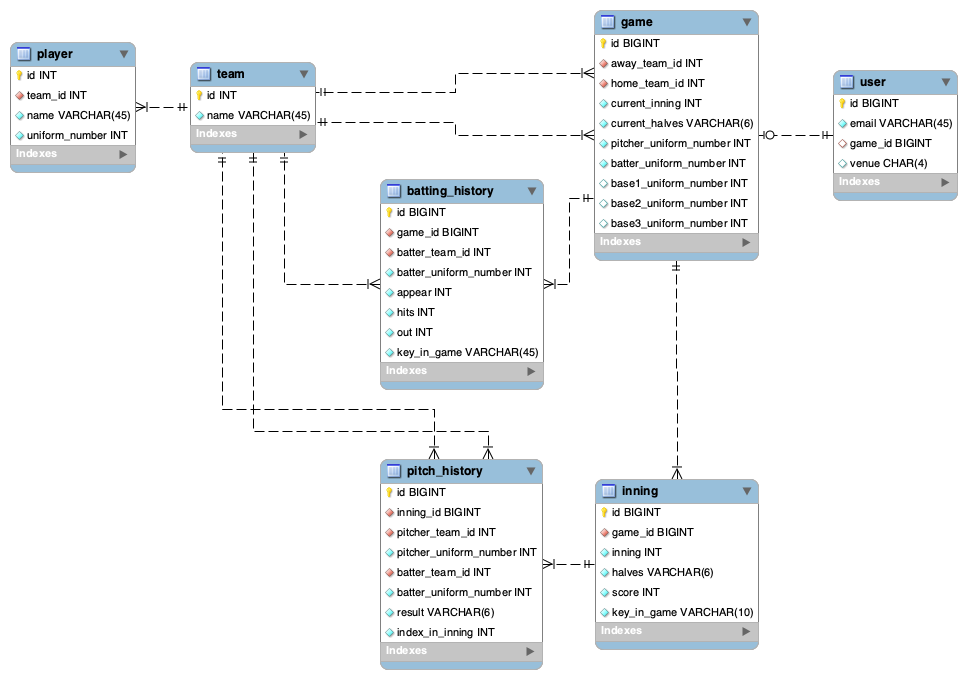
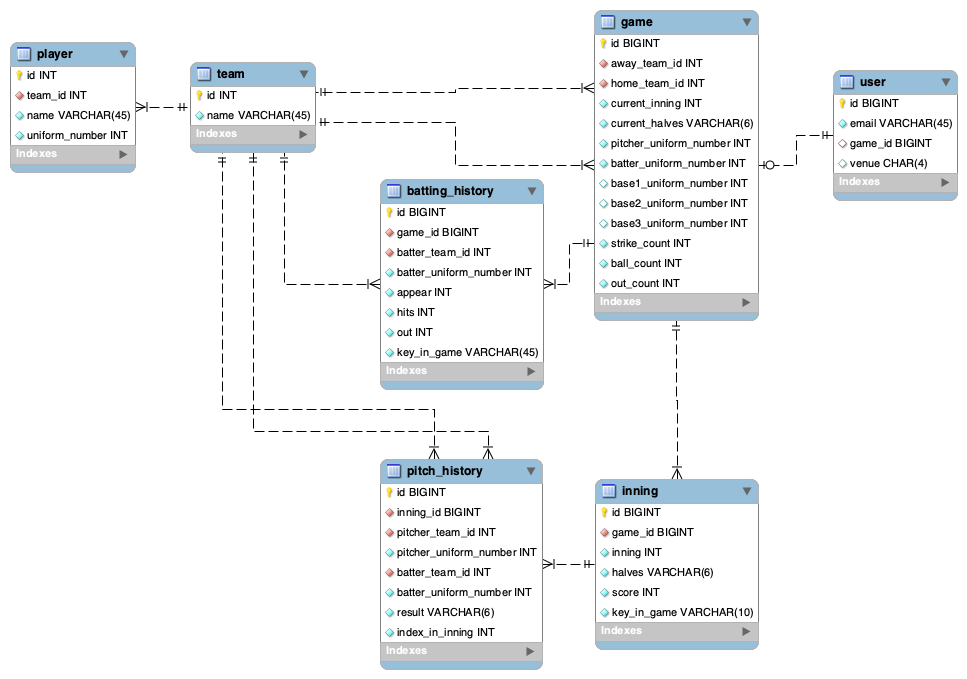
[#1, #2] Change database schema
1. game 테이블에 strike_count, ball_count, out_count 칼럼 추가
2. 추가한 칼럼에 맞도록 Game 객체에 프로퍼티 추가

diff --git a/BE/baseball/src/main/java/team9/baseball/domain/aggregate/game/Game.java b/BE/baseball/src/main/java/team9/baseball/domain/aggregate/game/Game.java
@@ -38,6 +38,12 @@ public class Game {
 
     private Integer base3UniformNumber;
 
+    private int strikeCount;
+
+    private int ballCount;
+
+    private int outCount;
+
     @MappedCollection(idColumn = "game_id", keyColumn = "key_in_game")
     private Map<String, BattingHistory> battingHistoryMap = new HashMap<>();
 
